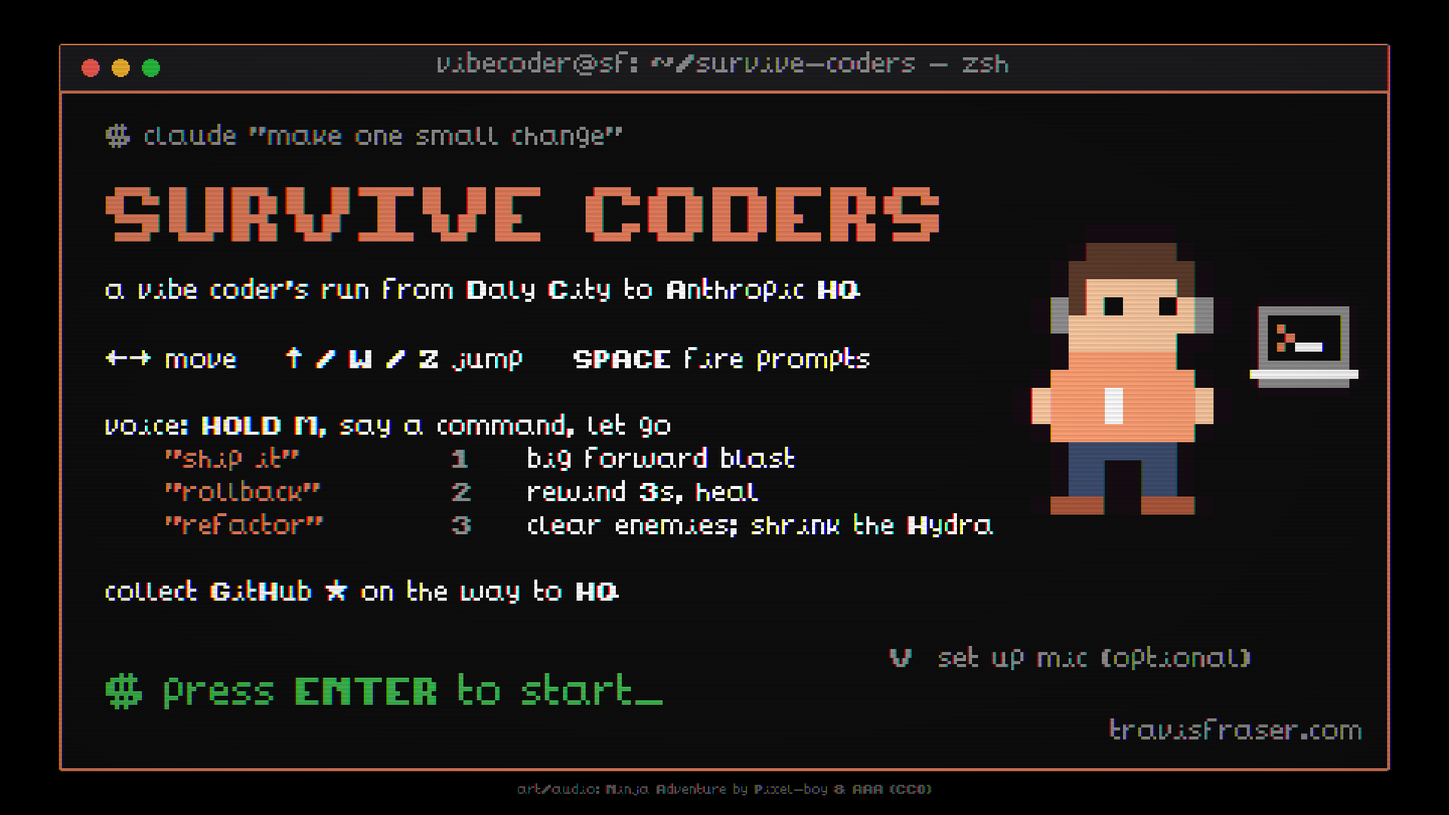
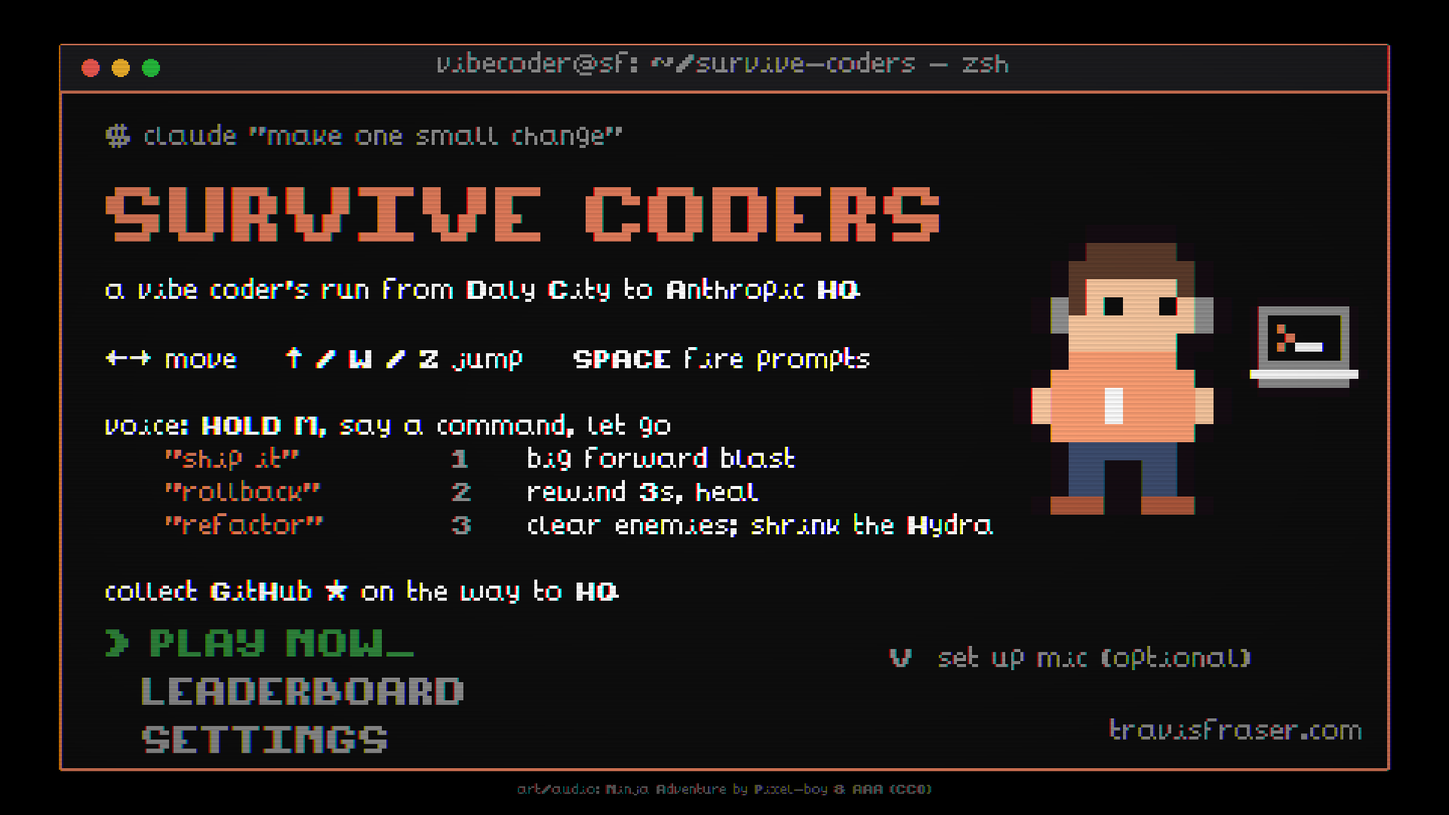
README: the title menu, settings and the leaderboard, with the setup and what the board claims
- Walkthrough: the title retaken with its menu, new Settings and leaderboard shots (the
  board with sample entries), the win screen with the post form, and the phone title.
- Features, controls, stack (Neon, Resend, the function), and the architecture diagram.
- What the leaderboard does and doesn't claim: the browser reports the score, the
  server turns away the impossible, and cheats are hidden by hand after the alert email.
- Local setup for vercel dev, the tests (npm test, npm run stars), the new browser
  checks, and the deployment steps for Neon, the role, the branches and the variables.
- Limitations: reduced effects and separate volumes are done; the leaderboard's trust
  model and per-browser identity are new entries.
- Leaderboard: a little more room between the tenth row and the profile line.

Changed region(s): [[0.0625, 0.7639, 0.4375, 0.9472], [0.4375, 0.8556, 0.4688, 0.8861]]

diff --git a/src/scenes/Leaderboard.js b/src/scenes/Leaderboard.js
@@ -34,8 +34,8 @@ export default class Leaderboard extends Phaser.Scene {
     uiText(this, COL.tag, ROW_Y - 22, 'profile', head);
 
     this.status = uiText(this, COL.name, ROW_Y, 'fetching..._', { size: 16, color: '#8b8b8b' });
-    this.dest = uiText(this, 70, win.y + win.h - 94, '', { size: 16, color: '#58a6ff' });
-    this.best = uiText(this, 70, win.y + win.h - 68, bestLine(), { size: 16, color: '#f5f5f5' });
+    this.dest = uiText(this, 70, win.y + win.h - 84, '', { size: 16, color: '#58a6ff' });
+    this.best = uiText(this, 70, win.y + win.h - 58, bestLine(), { size: 16, color: '#f5f5f5' });
     const hint = TOUCH ? 'tap a name to see its profile, tap again to open it' : '↑↓ choose   ENTER open profile   ESC back';
     uiText(this, 70, win.y + win.h - 16, hint, { size: 8, color: '#8b8b8b' });
 

diff --git a/README.md b/README.md
@@ -14,16 +14,18 @@ demo fires nothing, because `src/voice.js` only acts on release and only on a re
 command. It plays with a keyboard or, on phones and tablets, with touch controls.
 
 Status: hackathon demo: the city, Salesforce Park, three floors of the Salesforce Tower, the fall
-from its top, and one boss. Built with Claude Code (Claude Opus 5.5) as a pair programmer;
-commits carry `Co-Authored-By` trailers.
+from its top, and one boss, plus an online leaderboard (most stars, then fastest) and a settings
+screen. Built with Claude Code (Claude Opus 5.5) as a pair programmer; commits carry
+`Co-Authored-By` trailers.
 
 **Live app: <https://survive-coders.vercel.app>**
 
 ```
-Frontend   Phaser 3.90 + Vite 8, plain JavaScript, WebGL + CRT post-FX   Vercel (static)
+Frontend   Phaser 3.90 + Vite 8, plain JavaScript, WebGL + CRT post-FX   Vercel
+Backend    One Vercel function (api/scores.js) on Neon Postgres: the leaderboard
 Input      Keyboard; touch on phones and tablets (DOM buttons over the canvas)
 Voice      Web Speech API in the browser (Chrome or Edge), keys 1/2/3 or taps as fallback
-Tests      0 automated; scripted browser checks recorded in docs/review/
+Tests      51 unit tests (npm test, the API on PGlite); scripted browser checks in docs/review/
 ```
 
 Live URL checked 2026-09-27: HTTP 200.
@@ -51,10 +53,19 @@ Live URL checked 2026-09-27: HTTP 200.
 Desktop, 960x540 at 2x. Every frame is the running game, staged by script and frozen on the
 frame shown.
 
-**1. Title screen.** A terminal window with the controls, the vibe coder as key art, and `V` to
-set up the microphone.
+**1. Title screen.** A terminal window with the controls, the vibe coder as key art, `V` to set
+up the microphone, and a menu: PLAY NOW, LEADERBOARD, SETTINGS.
 
 ![Title screen](docs/screenshots/01-title.png)
+
+Settings holds music and sound-effect volume, sound on or off, the CRT filter, screen shake,
+flashes, fullscreen, and a run timer, all saved in the browser. The leaderboard ranks finished
+runs by stars, then time, and each of the top ten can link a profile (shown here with sample
+entries).
+
+![Settings](docs/screenshots/01a-settings.png)
+
+![The leaderboard, with sample entries](docs/screenshots/01b-leaderboard.png)
 
 **2. The hook.** The robotaxi pulls up as `#demo-day` asks for one small change, then dark
 mode (the first ping is shown).
@@ -194,7 +205,8 @@ Hydra's base.
 ![Hydra at full context: rain over the arena, flood lanes marked, refactor called out in the terminal bar](docs/screenshots/10-boss-context-overflow.png)
 
 **11. The payoff.** The robotaxi comes back (HQ is inside its service area), `#demo-day` asks
-for one more small change, and an original chiptune victory song plays.
+for one more small change, and an original chiptune victory song plays. The run's stars and
+time are on the screen, and a ranked run can post to the leaderboard from here.
 
 ![Win screen with the robotaxi and the last Slack ping](docs/screenshots/11-win-payoff.png)
 
@@ -202,8 +214,8 @@ for one more small change, and an original chiptune victory song plays.
 
 iPhone-size landscape (844x390) at 2x, in Chrome's device emulation.
 
-**12. Touch title.** The same terminal, with touch instructions; a tap starts the run, and on
-Android it goes fullscreen.
+**12. Touch title.** The same terminal, with touch instructions; a tap on PLAY NOW starts the
+run, and on Android it goes fullscreen.
 
 ![Title screen on a phone](docs/screenshots/12-phone-title.png)
 
@@ -237,12 +249,15 @@ A dated design review with before and after screenshots is in
 - A free fall down the tower's face against an altimeter, where you type three lines into Claude Code for a parachute (it gets it wrong twice), then a canopy ride over SoMa through arcs of stars onto a Waymo's roof, and the ride to HQ from its back seat: empty front seats, a wheel that turns itself, a rider screen to press, and Slack while a 47-minute ETA time-lapses away
 - Enemies by district: the Bad Prompt Blob (splits in two), the Keyboard Goblin (charges and spits keycaps), and the H100 GPU (six hit points, vents arcing heat) in the city; founders, vested bros, and Zone 2 joggers in the park; CRM agents (contracts that lock your fire) and chatbots (popups you shoot closed) in the tower
 - A rideable Powell St cable car, star arcs over pits, and pits that glow `404`
-- The Context Rot Hydra boss: a heap of H100s whose neck pipes stream tokens into three heads with distinct roles (image flood, gaslighting orb that reverses your controls, shown as a chip over the player, and a spawner whose notification skulls hunt you and respawn until that head dies); growth every 8 seconds, each turn dropping another GPU on the heap; once the context window is full, matrix rain buries the arena and context rot deals damage until you refactor, while threats and warnings stay drawn above the rain; lying speech bubbles, an enraged last head, and Furbies in the office worth bonus stars
+- The Context Rot Hydra boss: a heap of H100s whose neck pipes stream tokens into three heads with distinct roles (image flood, gaslighting orb that reverses your controls, shown as a chip over the player, and a spawner whose notification skulls hunt you and respawn until that head dies, worth no stars so stalling can't farm them); growth every 8 seconds, each turn dropping another GPU on the heap; once the context window is full, matrix rain buries the arena and context rot deals damage until you refactor, while threats and warnings stay drawn above the rain; lying speech bubbles, an enraged last head, and Furbies in the office worth bonus stars
 - Push-to-talk voice powers (`ship it`, `rollback`, `refactor`) with keyboard and tap equivalents; the HUD shows what was heard separately from what actually fired, and when a power is cooling down
 - A MAX power-up past the second pit: grab the chip and holding fire streams random characters at 25 a second from a 160-token budget, until the usage limit hits; unspent tokens carry into the Hydra fight
 - Platformer feel: coyote time, a 120 ms jump buffer, half gravity at the jump apex, a faster fall, hit stop, squash and stretch, and camera lookahead
 - Every piece of text rendered in an 8x8 pixel font; a CRT scanline post-effect
 - Pause, mute, and a checkpoint at every level after the first (the park, each tower floor, the fall, the boss) that restores your star total on retry
+- A title menu (PLAY NOW, LEADERBOARD, SETTINGS) driven by the arrow keys, a click, or a tap
+- Settings: music and sound-effect volume, sound on or off, the CRT filter, screen shake, flashes (shake and flashes start off when the system asks for reduced motion), fullscreen where the browser has it, and a run timer in the HUD; saved in the browser
+- An online leaderboard: most stars first (382 is the most one run can earn), then the time from PLAY NOW to the Hydra's fall, pauses excluded. A finished run posts a name and, optionally, a GitHub, LinkedIn, X, or Bluesky handle, which each of the top ten links to
 - Plays on phones and tablets: a touch D-pad and fire and jump buttons at the screen's corners, powers you tap in the terminal bar, hold-to-talk, auto-pause when the phone turns portrait or the app goes to the background, and a home-screen install that runs fullscreen
 - A song for each stretch of the run (the city, the park, the tower, the fall, the ride to HQ, and the Hydra), the new ones loudness-matched to the city's so none jumps out, plus two originals written as MIDI note data and synthesized in the browser: the elevator's bossa nova and the chiptune victory song on the win screen
 - Link previews and a favicon drawn from the game's own pixels
@@ -260,9 +275,12 @@ A dated design review with before and after screenshots is in
 | Type a line (the fall) | Type it; Tab fills it in, Enter sends, Backspace fixes | Every tap types the next letter; or hold *talk*, say it, release |
 | Steer the canopy | Arrow keys or A / D | ← → bottom left |
 | Pause / mute | P or Esc / N | Pause button at the top; sound toggle on the pause screen |
-| Title screen | Enter start, V set up microphone | Tap to start, tap *set up mic* |
+| Title screen | ↑ ↓ or W / S choose, Enter picks; V sets up the microphone | Tap PLAY NOW, LEADERBOARD, or SETTINGS; tap *set up mic* |
+| Settings | ↑ ↓ choose, ← → change, Enter toggles, Esc back | Tap a setting to change it; tap the volume dots to set a level |
+| Leaderboard | ↑ ↓ choose, Enter opens the selected profile, Esc back | Tap a name to see its link, tap again to open it |
 | Intro | Enter, Space, or Esc skips | Tap skips |
 | End screen | Enter retry (from the park, the floor, the fall, or the boss you died on), T title | Tap retries; *title* button |
+| Posting a win | Type a name and an optional handle or profile URL; Enter posts, Esc skips; then Enter plays again | The same form, with the phone's keyboard; tap the prompt to play again |
 
 Touch controls appear on devices whose main pointer is a finger. A thumb on the seam between
 `>_` and ↑ presses both. The game plays in landscape and pauses if the phone turns portrait.
@@ -271,7 +289,7 @@ fullscreen, but *Add to Home Screen* runs the game fullscreen from its web manif
 
 Nine URL flags help when testing: `?park`, `?tower=59` (or `60`, `61`), `?chute`, `?landing`,
 `?ride`, and `?boss` start at Salesforce Park, a tower floor, the fall, the canopy, the ride to
-HQ, or the boss after you press Enter on the title screen, `?debug` draws the physics bodies, `?fx=off` turns off the CRT effect, and `?touch` shows
+HQ, or the boss after you pick PLAY NOW (a run started this way never goes on the leaderboard), `?debug` draws the physics bodies, `?fx=off` turns off the CRT effect, and `?touch` shows
 the touch controls on a desktop (they work with a mouse).
 
 ---
@@ -289,7 +307,9 @@ the touch controls on a desktop (they work with a mouse).
 | Voice | The browser's Web Speech API, push-to-talk | No API key, no server, and no cost; the browser handles recognition. Keyboard keys cover browsers without it. |
 | Input | Phaser keyboard input; touch buttons as DOM elements over the canvas (pointer events) | The canvas is letterboxed at 16:9, so buttons anchored to the screen's corners sit partly in the side bars on wide phones instead of over the game. |
 | Audio | Ninja Adventure sound effects, six songs converted to MP3, and two originals synthesized with WebAudio | CC0 licensed; MP3 plays in every major browser. Only the first level's song loads before the title and the other five load behind it, so the new songs didn't lengthen the wait to play. The originals are MIDI note data on small WebAudio synths, so they ship as code, not files. |
-| Hosting | Vercel, static, Git-linked | Every push to `master` builds and deploys; no server code to run. |
+| Hosting | Vercel, Git-linked: the static build plus one function, `api/scores.js` | Every push to `master` builds and deploys. The function sits next to the game, so the page talks to its own origin. |
+| Leaderboard database | Neon Postgres (free plan) through `@neondatabase/serverless` over HTTP | It scales to zero and wakes on the next query, where Supabase's free plan pauses a project after a week without traffic. The HTTP driver needs no connection pool in a serverless function. |
+| Alerts | Resend's REST API, one `fetch` | An email per new top-ten entry, carrying the SQL that hides it; no SDK. |
 
 ---
 
@@ -309,7 +329,10 @@ the touch controls on a desktop (they work with a mouse).
 │  Art: drawn to canvas textures at boot (sprites.js, backdrops.js,       │
 │       hqArt.js, parkArt.js, towerArt.js, chuteArt.js, rideArt.js)       │
 │       + public/assets                                                   │
-│  Storage: one localStorage key (a demo setting)                         │
+│  Scenes too: Settings, Leaderboard (from the title)                     │
+│  src/run.js: the run clock (PLAY NOW to the Hydra's fall, milestones)   │
+│  Storage (localStorage, all optional): settings, an anonymous player    │
+│    id, the last name and link posted, the best finish, a demo setting   │
 │                                                                         │
 │  src/touch.js ── DOM buttons over the canvas ──→ Player.tick, HUD taps  │
 │  src/elevatorSong.js, victorySong.js ── note data ──→ songPlayer.js     │
@@ -322,7 +345,17 @@ the touch controls on a desktop (they work with a mouse).
                                ▼
                     browser speech recognition service
 
-Vercel: serves the static dist/ build; there is no backend.
+Vercel: serves the static dist/ build, and one function:
+
+  GET  /api/scores ── top ten, edge-cached 15 min ──┐
+  POST /api/scores ── a finished run ───────────────┼──→ Neon Postgres (role sc_app:
+       origin + JSON checks → shared rules          │       read and add scores only)
+       → rate limit → insert + rank ────────────────┘
+       a new top-ten best ──→ Resend ──→ an email to Travis
+
+  shared/leaderboard.js: one set of rules for the game, the API, and (as CHECK constraints)
+  the table: at most 382 stars, time floors, names, profile handles.
+  trust boundary: a posted name and handle are public; addresses are kept only as an HMAC.
 ```
 
 ### The design decision worth explaining
@@ -340,7 +373,18 @@ one wins.
 What the design does not claim: recognition accuracy, offline use, or that audio stays on the
 device. Chrome's recognition runs on the browser vendor's servers.
 
-Not in this project: backend, database, authentication, environment variables, secrets.
+### What the leaderboard does and doesn't claim
+
+The game runs in the player's browser, so the browser reports the score, and a determined
+player can post a fake one: a script can send the maximum stars at a plausible time. The
+server doesn't pretend otherwise. It turns away runs that can't happen (more than 382 stars,
+milestones out of order or faster than the level allows, a run posted twice), keeps one
+address to five posts a minute, and only takes posts from the game's own pages, which stops
+other sites from using their visitors' browsers but not a script. The rest is moderation:
+every new top-ten entry emails Travis with the one line of SQL that hides it, and the public
+board refreshes within 15 minutes. God mode and the level-jump flags are never ranked.
+
+There are no accounts: a player is an anonymous id kept in their browser.
 
 ---
 
@@ -360,12 +404,41 @@ that build locally, and `npm run images` redraws the favicon, home-screen icons,
 card in `public/` from the game's sprites (`scripts/make-images.mjs`, no dependencies). The microphone only works in a secure context, so use `localhost` (not a
 LAN IP over plain HTTP) when testing voice.
 
+The leaderboard API runs under the Vercel CLI, not Vite. Copy `.env.example` to `.env`, fill
+it with the Neon **dev** branch's `sc_app` connection string and a throwaway `IP_HASH_SECRET`,
+and run `vercel dev --listen 3000`: it serves the game and `/api` together, and it reads
+`.env`, not `.env.local`. The API refuses to start if a non-production environment points at
+the production branch. Plain `npm run dev` still plays; its leaderboard just reads *offline*.
+`npm run smoke` checks a running API end to end (it posts two runs named `smoke-*`).
+
 ---
 
 ## Tests
 
-There is no automated test suite yet; `package.json` has no test script, and there are no test
-files. The production build is the only command-line check:
+`npm test` runs 51 unit tests on Node's built-in runner (no test framework):
+
+- `shared/leaderboard.js`: the star ceiling, the time and milestone checks, names, profile
+  handles, and pasted-URL parsing
+- the run clock (pauses, milestones, and the check that catches a clock running short), the
+  settings store, the mute toggle, the saved player profile, and the game's API client
+- the API against real Postgres: PGlite (Postgres compiled to WebAssembly, a dev dependency)
+  runs `db/schema.sql`, then every refusal, the rate limit, the ranking (ties, one row per
+  player, hidden rows), the alert email, and what the `sc_app` role can and can't do. This is
+  how a CHECK constraint that let a NULL through was caught.
+
+```console
+$ npm test
+ℹ tests 51
+ℹ pass 51
+ℹ fail 0
+```
+
+`npm run stars` recounts every star source straight from the level source and fails unless
+the total matches the leaderboard's per-level maximums (98, 74, 34, 40, 29, 0, 12, 95: 382)
+and every place that grants stars is one it knows. Run it after changing a map, a wave, an
+enemy's reward, or a bonus.
+
+The production build is the other command-line check:
 
 ```console
 $ npm run build
@@ -401,6 +474,10 @@ against the running game, recorded with screenshots in
 | Ohana finale (2026-09-27) | A wave agent left alive at the far wall no longer holds the exit: the last 8 tiles drop 18 closers right behind you (13 within 120 px at 1.5 s), the stray joins them, the third contract into the window breaks it at about 2 s, and the crowd shoves an idle player through; clearing the lounge mid-floor drops them behind you there |
 | Contracts and popups (2026-09-27) | A contract locks fire without damage, `refactor` voids it, and a new lock waits out a 1 s grace; a popup shot closed asks *Was this helpful?* once; `refactor` clears popups and on-screen chatbots |
 | Push-to-talk parsing | The four cases in [Architecture](#the-design-decision-worth-explaining) pass with a simulated recognizer |
+| Title menu, settings, leaderboard (2026-09-29) | The menu answers to arrows and Enter, a click, and a tap; a click off the menu no longer starts a run. Settings flips the CRT filter live, previews the music at the chosen level, and a saved setting (CRT off, no shake or flash, music at 50%) holds after a reload with the song at 0.14 instead of 0.28. The leaderboard shows its offline state with no API, and a ten-row board with its links laid exactly over their rows; Enter opens the selected profile |
+| Run clock (2026-09-29) | Paused for a second, it gains 0 ms; it resumes on unpause. A run fast-forwarded through every milestone summarizes as ranked; the same run in god mode shows *not ranked* on the win screen. *Play again* after a win starts a fresh run |
+| Posting a win (2026-09-29) | Typed into the name field, `Jaz Wd XZ m123 T` arrives whole, with no power fired and no restart; a pasted LinkedIn URL becomes the platform and handle; with no API the post says it can't reach the board; a stubbed 201 shows the rank and opens the returned board; Esc then Enter plays again. On touch a stray tap leaves the form up and a tap on the prompt restarts |
+| Skipping the intro (2026-09-29) | Esc skips the intro without pausing the level (it used to do both); P, three keys in one frame, pauses once; N mutes once |
 | Production build | Loads with no failed requests and no console errors or warnings, locally and on the live URL |
 | Touch controls (iPhone landscape emulation, synthetic touch and pointer events) | The D-pad moves at full speed and slides between directions; a tapped jump peaks at 24 px and a held one at 70 px; holding jump jumps once, as the keyboard does; each power fires from its slot; pause, resume, the sound toggle, and auto-pause on a hidden tab or a portrait turn all work |
 | Touch-only playthrough | A scripted run using only the touch controls finished Level 1, cable car included, and the Hydra; it checks the controls, not the difficulty |
@@ -408,8 +485,10 @@ against the running game, recorded with screenshots in
 | Victory song | Offline render at -27.4 dB RMS against -27.9 dB for the level music; silent within 0.8 s of leaving the win screen |
 | A song per level (2026-09-27) | One song at a time from Level 1 through the park, the tower, both elevator rides, the fall and `ship it` (the fall's song stops, and the ride's is the same sound through the landing) to the Hydra; three falls onto the roof leave no song playing and none held by the sound manager. A song still loading when its level starts plays the moment it arrives, and never after a splat or once you've left. The four new pack songs encode at -21.1 LUFS, the same as the city's, and the elevator's bossa nova renders at -32.0 LUFS against -32.2 for the city's at its in-game volume. The elevator song resumes on the next ride at the bar where it stopped, and N mutes in the elevator and the landing |
 
-Not verified by automation: real spoken commands through a microphone, the audio mix, and
-difficulty with first-time players (the fall's 24 seconds included).
+Not verified by automation: real spoken commands through a microphone, the audio mix,
+difficulty with first-time players (the fall's 24 seconds included), and a full run timed
+against a stopwatch (the run clock is unit tested and checked in the browser, not over a
+real run).
 
 ---
 
@@ -422,6 +501,30 @@ difficulty with first-time players (the fall's 24 seconds included).
    Vercel CLI installed and logged in.
 3. Verify with `curl -sI https://survive-coders.vercel.app/ | head -1` (expect `HTTP/2 200`),
    then open the URL in Chrome, press V on the title screen, hold M, and say *ship it*.
+
+**The leaderboard** needs a database and four settings before the first deploy that has it:
+
+1. In the Neon console, create a project in AWS us-east-1 (next to Vercel's default function
+   region). In its SQL editor, as the owner, run `db/schema.sql`, then
+   `ALTER ROLE sc_app PASSWORD '…';` with a fresh `openssl rand -base64 30`. Create the role
+   this way, not in the console: console roles can read and write everything.
+2. Create a `dev` branch, **unticking "Automatically delete branch after"** (the console
+   deletes new branches after a day by default), and set `sc_app` a different password
+   there. A branch starts with its parent's passwords; set it again after any reset.
+3. In Vercel, add Sensitive environment variables. Production: `DATABASE_URL` (the prod
+   branch's pooled `sc_app` URL), `IP_HASH_SECRET` (`openssl rand -base64 48`),
+   `NEON_PROD_HOST` (the prod branch's host), and, for the alert email, `RESEND_API_KEY` (a
+   sending-only key) and `NOTIFY_EMAIL`. Preview: the same names with the `dev` branch's
+   URL and their own secret. Leave Development empty: `vercel env pull` can't read Sensitive
+   values back, so local work uses a hand-written `.env`.
+4. Deploy (environment variables apply to new deployments only), then `npm run smoke --
+   https://survive-coders.vercel.app`.
+
+To hide a cheat, run the `UPDATE` from its alert email in the Neon SQL editor; the public
+board catches up within 15 minutes (purge the CDN cache in the Vercel dashboard if it can't
+wait). Nothing may query the database more often than every few minutes around the clock:
+the free plan's compute sleeps after five idle minutes, and one that never sleeps uses up the
+month's hours in about 17 days.
 
 **Link previews** (Slack, iMessage, X, LinkedIn) come from the Open Graph tags in
 `index.html`, not from a Vercel setting; they point at `public/og.png` by absolute URL because
@@ -440,15 +543,12 @@ login. Also, `.vercelignore` keeps `feed/` (local, gitignored raw asset packs) a
 - **Voice needs Chrome or Edge and a network connection**, and Chrome sends the audio to its
   speech service. Next: on-device recognition in the browser, so voice works offline and
   audio never leaves the machine.
-- **No automated tests.** The checks above are scripted browser runs. Next: unit tests for
-  the command parsing in `src/voice.js` and a headless smoke test (title, level, boss, win) in CI.
+- **No gameplay tests in CI.** The unit tests cover the rules, the clock, and the API; the
+  gameplay checks above are scripted browser runs. Next: unit tests for the command parsing
+  in `src/voice.js` and a headless smoke test (title, level, boss, win) in CI.
 - **One route through the city.** Next: more neighborhoods and the two unused enemies from the
   original monster sheet (a Pixel Nudger that moves platforms and a Breach Wraith that leaks
   keys).
-- **No reduced-effects option.** The CRT effect, camera flashes, and screen shake cannot be
-  turned off, which matters for photosensitive players and projectors. Next: a toggle on
-  the title screen.
-- **One mute for everything.** Next: separate music and sound-effect volumes.
 - **Touch is verified in emulation only.** Level 1 and the Hydra were finished touch-only in
   Chrome's iPhone emulation, driven by synthetic touch and pointer events; nobody has played it
   on a real phone yet. iPhone Safari keeps its toolbar unless the game is added to the home
@@ -457,8 +557,13 @@ login. Also, `.vercelignore` keeps `feed/` (local, gitignored raw asset packs) a
   dead, and platforms are solid from below. Next: corner correction and one-way platforms.
 - **A 1.3 MB JavaScript bundle**, mostly Phaser, triggers Vite's chunk-size warning. It loads
   once and is cached. Next: split Phaser into its own vendor chunk.
-- **No sign-in or leaderboard.** Stars reset each session; accounts and a shared leaderboard were
-  deferred past the demo.
+- **The leaderboard trusts the browser.** A script can post a fake top score; the server only
+  turns away the impossible (see [what the leaderboard claims](#what-the-leaderboard-does-and-doesnt-claim)),
+  and cheats are hidden by hand after the alert email. Next: an occasional offline audit of
+  the stored milestones (times and stars at each), first as rules, later as a model.
+- **A player is a browser.** Clearing site data, or another browser, is a new player. Inside
+  the travisfraser.com embed, storage belongs to that site (and Safari keeps it only in
+  memory), so the embed and the direct link count as two players.
 
 ---
 
